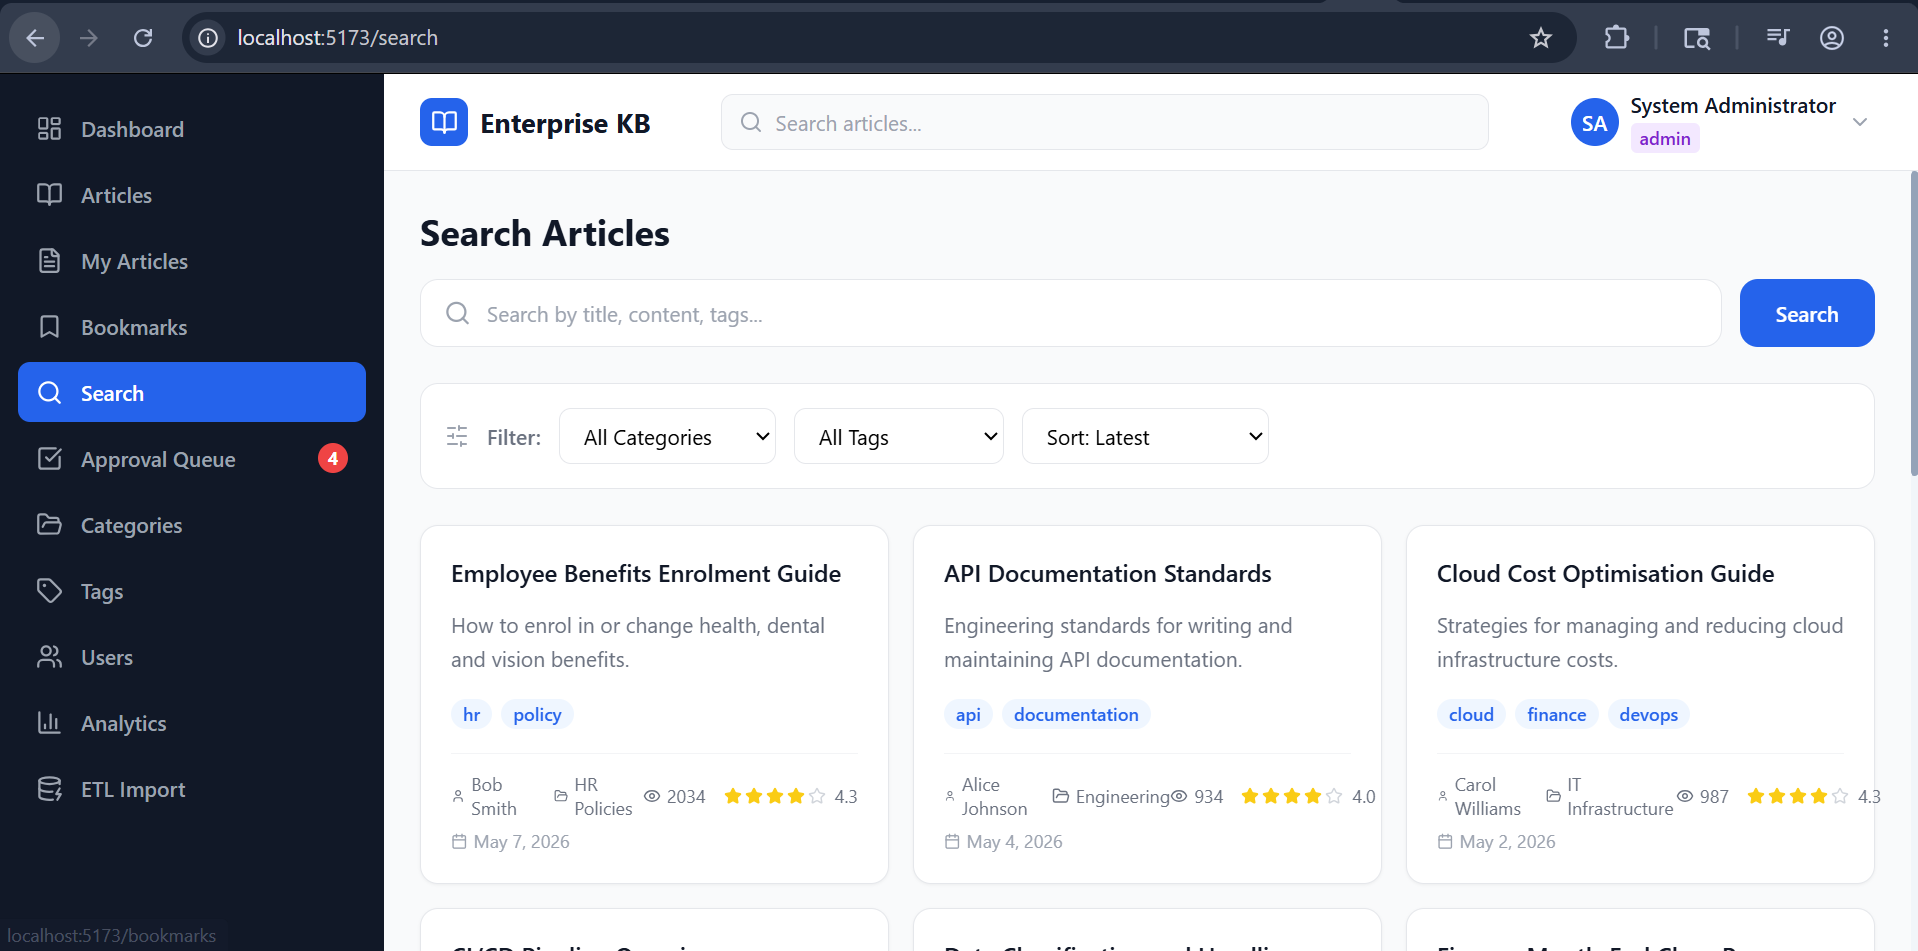
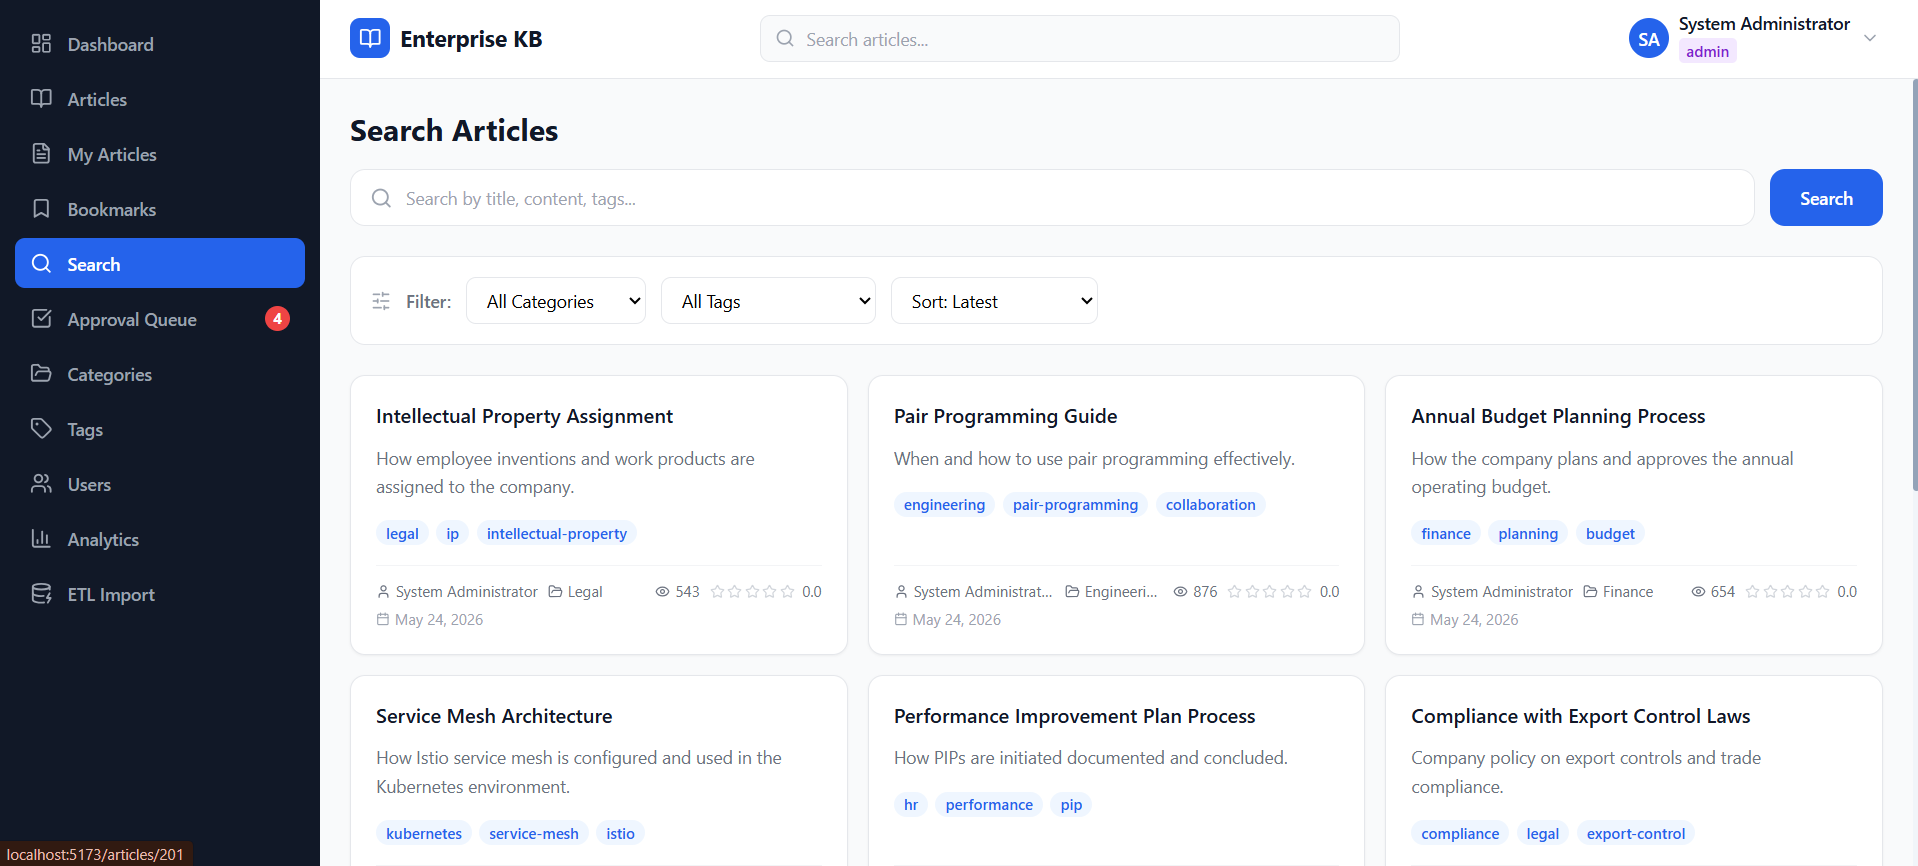
fixes on Search and article page

diff --git a/AFDE-May26-Syed-EKBMS/README.md b/AFDE-May26-Syed-EKBMS/README.md
@@ -41,6 +41,17 @@ Full-text search across titles, descriptions, and content. Results display star 
 
 ---
 
+### Bookmarks
+![Bookmarks List](images/bookmarks-1.png)
+
+Users can save articles for later by clicking the bookmark button on any article. The Bookmarks page displays all saved articles as cards with title, description, tags, author, category, view count, and rating at a glance.
+
+![Bookmarks Detail](images/bookmarks-2.png)
+
+Opening a bookmarked article shows the full content with the bookmark button reflecting the saved state. Clicking it again removes the bookmark instantly.
+
+---
+
 ### Approval Queue
 ![Article Approval](images/article-approval.png)
 